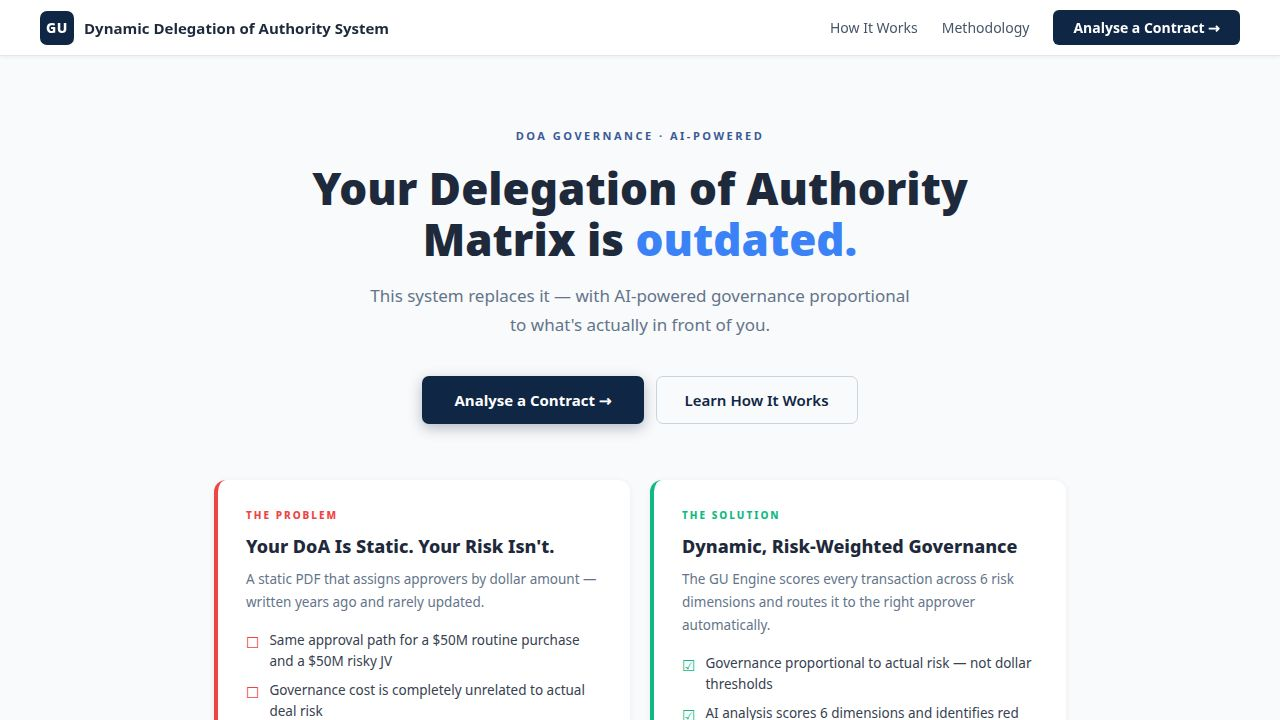
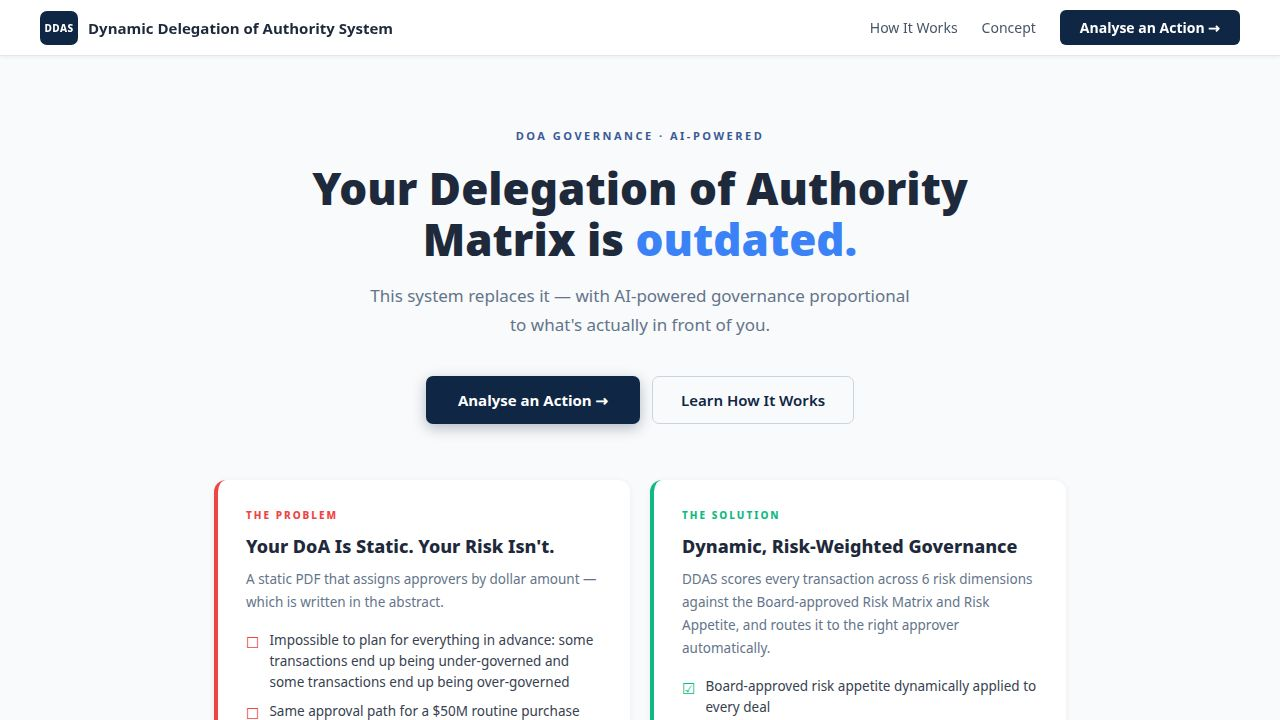
Task #3: Polish the Analyse page entry UI
Rewrote the idle/entry state of ContractAnalyzer.jsx to match the visual
quality of the rest of the app. Four areas changed, no logic touched.

1. Demo Environment card header
   - Replaced raw 🔵 emoji with a styled navy pill badge (dark navy bg,
     blue indicator dot, "Demo" label in white uppercase)
   - Subtitle text moved inline in the header bar
   - Gradient header background matching app's card design language

2. Sample contracts grid
   - Removed the single "Click here to try a sample settlement agreement"
     text link
   - All 5 SAMPLES (Solar EPC, Wind Farm PPA, Green Hydrogen JV, Carbon
     Credit Offtake, Vague Deal) + Settlement Agreement rendered as a
     3×2 grid of clickable cards (icon + label each)
   - Each card uses existing btn-interactive hover animation

3. Upload dropzone (standalone)
   - Moved out of the chat-area div (which was rendering it invisibly
     inside a zero-height container)
   - Now a standalone styled card: dashed border, SVG document+upload icon,
     clear heading, supporting subtext
   - Hover state changes border to accent-primary and background to
     accent-primary-light
   - Chat area hidden via display:none when idle (only shown when active)

4. Input bar container
   - Wrapped in cardStyle container with padding
   - Label "Describe your action or transaction" shown above textarea when idle
   - File attach button upgraded to SVG paperclip icon (vs raw 📎 emoji)
[…]

diff --git a/artifacts/gu-engine/src/components/ContractAnalyzer.jsx b/artifacts/gu-engine/src/components/ContractAnalyzer.jsx
@@ -1126,40 +1126,55 @@ export default function ContractAnalyzer({ config, restoredResult, onResultClear
       {/* Demo box: org profile + sample contracts (idle state only) */}
       {!active && (
         <div className="profile-selector no-print" style={{ ...cardStyle, marginBottom: 14, padding: 0, overflow: 'hidden' }}>
-          <div style={{ padding: '8px 14px', background: 'rgba(30,74,122,0.06)', borderBottom: '1px solid rgba(30,74,122,0.12)', display: 'flex', alignItems: 'center', gap: 8 }}>
-            <span style={{ fontSize: 12 }}>🔵</span>
-            <span style={{ fontSize: 10, fontWeight: 800, letterSpacing: 1.4, color: '#1e4a7a', textTransform: 'uppercase' }}>Demo Environment</span>
+          {/* Header */}
+          <div style={{ padding: '11px 16px', background: 'linear-gradient(135deg, rgba(15,38,68,0.07) 0%, rgba(30,74,122,0.10) 100%)', borderBottom: '1px solid rgba(30,74,122,0.14)', display: 'flex', alignItems: 'center', gap: 10 }}>
+            <div style={{ display: 'inline-flex', alignItems: 'center', gap: 6, padding: '3px 10px 3px 8px', borderRadius: 20, background: '#0f2644' }}>
+              <div style={{ width: 6, height: 6, borderRadius: '50%', background: '#5b8fbe', flexShrink: 0 }} />
+              <span style={{ fontSize: 9, fontWeight: 800, letterSpacing: 1.8, color: '#fff', textTransform: 'uppercase' }}>Demo</span>
+            </div>
+            <span style={{ fontSize: 11, fontWeight: 500, color: 'var(--text-secondary)' }}>Configure your organization profile before analysing an action</span>
           </div>
-          <div style={{ padding: '12px 14px' }}>
-          <div style={{ fontSize: 12, color: 'var(--text-muted)', marginBottom: 10, lineHeight: 1.5 }}>
-            Choose your organization profile for automatic calibration. In a live deployment this is approved by the Board of Directors and hardwired in the Configuration section.
-          </div>
-          <div style={{ display: 'flex', alignItems: 'center', gap: 8, marginBottom: 12, flexWrap: 'wrap' }}>
-            <span style={{ fontSize: 12, fontWeight: 600, color: 'var(--text-secondary)' }}>Select the type of your organization:</span>
-            {Object.entries(config.profiles).map(([id, prof]) => (
-              <button key={id} onClick={() => setProfile(id)} className="btn-interactive" style={{
-                padding: '4px 12px', borderRadius: 6, fontSize: 11, fontWeight: 600, cursor: 'pointer',
-                border: profile === id ? '2px solid var(--accent-primary)' : '1.5px solid var(--border-primary)',
-                background: profile === id ? 'var(--accent-primary-light)' : 'var(--bg-card)',
-                color: profile === id ? 'var(--accent-primary)' : 'var(--text-muted)',
-                transition: 'all 0.3s',
-              }}>{prof.label}</button>
-            ))}
-          </div>
-          <div style={{ paddingTop: 10, borderTop: '1px solid var(--border-secondary)', fontSize: 12, color: 'var(--text-muted)' }}>
-            Don&rsquo;t have an action to describe?{' '}
-            <button
-              onClick={() => send(DEMO_SETTLEMENT, '\uD83D\uDCC4 Sample: Settlement Agreement — Meridian Resources / Atlas Mining Services')}
-              className="btn-interactive"
-              style={{
-                background: 'none', border: 'none', padding: 0, cursor: 'pointer',
-                color: 'var(--accent-primary)', fontWeight: 700, fontSize: 12,
-                textDecoration: 'underline', textUnderlineOffset: 2,
-              }}
-            >
-              Click here to try with a sample settlement agreement.
-            </button>
-          </div>
+
+          <div style={{ padding: '14px 16px' }}>
+            {/* Profile selector */}
+            <div style={{ display: 'flex', alignItems: 'center', gap: 8, marginBottom: 14, flexWrap: 'wrap' }}>
+              <span style={{ fontSize: 11, fontWeight: 600, color: 'var(--text-secondary)', flexShrink: 0 }}>Organization type:</span>
+              {Object.entries(config.profiles).map(([id, prof]) => (
+                <button key={id} onClick={() => setProfile(id)} className="btn-interactive" style={{
+                  padding: '4px 12px', borderRadius: 6, fontSize: 11, fontWeight: 600, cursor: 'pointer',
+                  border: profile === id ? '2px solid var(--accent-primary)' : '1.5px solid var(--border-primary)',
+                  background: profile === id ? 'var(--accent-primary-light)' : 'var(--bg-card)',
+                  color: profile === id ? 'var(--accent-primary)' : 'var(--text-muted)',
+                  transition: 'all 0.2s',
+                }}>{prof.label}</button>
+              ))}
+            </div>
+
+            {/* Sample contracts grid */}
+            <div style={{ borderTop: '1px solid var(--border-secondary)', paddingTop: 12 }}>
+              <div style={{ fontSize: 10, fontWeight: 700, color: 'var(--text-muted)', letterSpacing: 1.3, textTransform: 'uppercase', marginBottom: 8 }}>
+                Try a sample transaction
+              </div>
+              <div style={{ display: 'grid', gridTemplateColumns: 'repeat(3, 1fr)', gap: 6 }}>
+                {[...SAMPLES, { label: 'Settlement Agreement', icon: '\u2696\uFE0F', text: DEMO_SETTLEMENT }].map((s, i) => (
+                  <button
+                    key={i}
+                    onClick={() => send(s.text, `${s.icon} Sample: ${s.label}`)}
+                    className="btn-interactive"
+                    style={{
+                      padding: '8px 10px', borderRadius: 8,
+                      border: '1.5px solid var(--border-primary)',
+                      background: 'var(--bg-card)', cursor: 'pointer',
+                      display: 'flex', alignItems: 'center', gap: 7,
+                      textAlign: 'left',
+                    }}
+                  >
+                    <span style={{ fontSize: 15, flexShrink: 0, lineHeight: 1 }}>{s.icon}</span>
+                    <span style={{ fontSize: 11, fontWeight: 600, color: 'var(--text-secondary)', lineHeight: 1.3 }}>{s.label}</span>
+                  </button>
+                ))}
+              </div>
+            </div>
           </div>
         </div>
       )}
@@ -1181,19 +1196,57 @@ export default function ContractAnalyzer({ config, restoredResult, onResultClear
         </div>
       )}
 
-      {/* Chat area */}
+      {/* Upload dropzone — idle state only */}
+      {!active && !result && (
+        <div
+          className="no-print"
+          onClick={() => fileRef.current?.click()}
+          style={{
+            ...cardStyle,
+            marginBottom: 14, cursor: 'pointer',
+            border: '2px dashed var(--border-primary)',
+            background: 'var(--bg-secondary)',
+            padding: '30px 24px',
+            textAlign: 'center',
+            display: 'flex', flexDirection: 'column', alignItems: 'center', gap: 10,
+            transition: 'border-color 0.2s, background 0.2s',
+          }}
+          onMouseEnter={e => {
+            e.currentTarget.style.borderColor = 'var(--accent-primary)';
+            e.currentTarget.style.background = 'var(--accent-primary-light)';
+          }}
+          onMouseLeave={e => {
+            e.currentTarget.style.borderColor = 'var(--border-primary)';
+            e.currentTarget.style.background = 'var(--bg-secondary)';
+          }}
+        >
+          <div style={{
+            width: 52, height: 52, borderRadius: 14,
+            display: 'flex', alignItems: 'center', justifyContent: 'center',
+            background: 'var(--accent-primary-light)', border: '1.5px solid var(--border-primary)',
+          }}>
+            <svg width="24" height="24" viewBox="0 0 24 24" fill="none" stroke="var(--accent-primary)" strokeWidth="2" strokeLinecap="round" strokeLinejoin="round">
+              <path d="M14 2H6a2 2 0 0 0-2 2v16a2 2 0 0 0 2 2h12a2 2 0 0 0 2-2V8z"/>
+              <polyline points="14,2 14,8 20,8"/>
+              <line x1="12" y1="18" x2="12" y2="12"/>
+              <line x1="9" y1="15" x2="15" y2="15"/>
+            </svg>
+          </div>
+          <div>
+            <div style={{ fontSize: 14, fontWeight: 700, color: 'var(--text-primary)', marginBottom: 3 }}>Drop a document here, or click to upload</div>
+            <div style={{ fontSize: 12, color: 'var(--text-muted)' }}>PDF or image — or describe your transaction in the input below</div>
+          </div>
+        </div>
+      )}
+
+      {/* Chat area — visible once a conversation has started */}
       <div className="chat-area no-print" style={{
         ...cardStyle, background: 'var(--bg-chat)', maxHeight: 450, overflowY: 'auto',
         padding: active ? 16 : 0, marginBottom: 14, minHeight: active ? 120 : 0,
+        display: active ? 'block' : 'none',
         transition: 'all 0.3s',
       }}>
-        {!active && !result && (
-          <div onClick={() => fileRef.current?.click()} style={{ padding: 24, textAlign: 'center', cursor: 'pointer', transition: 'all 0.3s' }}>
-            <div style={{ fontSize: 28 }}>{'\uD83D\uDCC4'}</div>
-            <div style={{ fontSize: 14, fontWeight: 600, color: 'var(--text-secondary)', marginTop: 4 }}>Drop a document here, or click to upload</div>
-            <div style={{ fontSize: 12, color: 'var(--text-muted)', marginTop: 3 }}>PDF, images — or type/paste text below</div>
-          </div>
-        )}
+        {false && null /* dropzone removed — now rendered above as standalone */}
 
         {chat.map((msg, i) => {
           if (msg.from === 'user') return (
@@ -1627,27 +1680,55 @@ export default function ContractAnalyzer({ config, restoredResult, onResultClear
 
       {/* Input area */}
       {!result && (
-        <div className="input-area no-print">
+        <div className="input-area no-print" style={{
+          ...cardStyle,
+          padding: '14px 16px',
+        }}>
+          {/* Label — shown only when idle */}
+          {!active && (
+            <div style={{ fontSize: 10, fontWeight: 700, color: 'var(--text-muted)', letterSpacing: 1.3, textTransform: 'uppercase', marginBottom: 10 }}>
+              Describe your action or transaction
+            </div>
+          )}
+
+          {/* Attached file badge */}
           {file && (
-            <div style={{ display: 'flex', gap: 4, marginBottom: 6 }}>
-              <div style={{ display: 'flex', alignItems: 'center', gap: 4, padding: '4px 10px', background: 'var(--accent-primary-light)', borderRadius: 6, fontSize: 12, fontWeight: 600, color: 'var(--accent-primary)' }}>
+            <div style={{ display: 'flex', gap: 4, marginBottom: 8 }}>
+              <div style={{ display: 'flex', alignItems: 'center', gap: 6, padding: '4px 10px', background: 'var(--accent-primary-light)', borderRadius: 6, fontSize: 12, fontWeight: 600, color: 'var(--accent-primary)', border: '1px solid var(--border-primary)' }}>
+                <span style={{ fontSize: 13 }}>📎</span>
                 {file.name}
-                <button onClick={() => setFile(null)} style={{ background: 'none', border: 'none', cursor: 'pointer', color: 'var(--accent-secondary)', fontSize: 14, fontWeight: 700, padding: 0 }}>x</button>
+                <button onClick={() => setFile(null)} style={{ background: 'none', border: 'none', cursor: 'pointer', color: 'var(--text-muted)', fontSize: 14, fontWeight: 700, padding: 0, lineHeight: 1 }}>×</button>
               </div>
             </div>
           )}
+
           <div className="input-row" style={{ display: 'flex', gap: 8, alignItems: 'flex-end' }}>
             <input ref={fileRef} type="file" accept=".pdf,image/*" onChange={e => { setFile(e.target.files[0] || null); e.target.value = ''; }} style={{ display: 'none' }} />
-            <button onClick={() => fileRef.current?.click()} className="btn-interactive" style={{ padding: '10px 12px', borderRadius: 10, border: '1.5px solid var(--border-primary)', background: 'var(--bg-card)', cursor: 'pointer', fontSize: 16, color: 'var(--text-tertiary)', minHeight: 44 }}>{'\uD83D\uDCCE'}</button>
+            <button
+              onClick={() => fileRef.current?.click()}
+              className="btn-interactive"
+              title="Attach a PDF or image"
+              style={{
+                padding: '10px 12px', borderRadius: 10,
+                border: '1.5px solid var(--border-primary)',
+                background: 'var(--bg-tertiary)', cursor: 'pointer',
+                fontSize: 16, color: 'var(--text-tertiary)', minHeight: 44,
+                display: 'flex', alignItems: 'center', justifyContent: 'center',
+              }}
+            >
+              <svg width="17" height="17" viewBox="0 0 24 24" fill="none" stroke="currentColor" strokeWidth="2" strokeLinecap="round" strokeLinejoin="round">
+                <path d="M21.44 11.05l-9.19 9.19a6 6 0 0 1-8.49-8.49l9.19-9.19a4 4 0 0 1 5.66 5.66l-9.2 9.19a2 2 0 0 1-2.83-2.83l8.49-8.48"/>
+              </svg>
+            </button>
             <textarea
               value={input} onChange={e => setInput(e.target.value)} onKeyDown={onKey}
-              placeholder={active ? "Answer the advisor's questions..." : 'Paste an action description, contract text, or describe a transaction...'}
+              placeholder={active ? "Answer the system's questions, or add more detail..." : 'Paste a contract, describe a transaction, or type a question...'}
               rows={active ? 2 : 4}
               style={{
                 flex: 1, padding: 12, borderRadius: 10, border: '1.5px solid var(--border-primary)',
                 fontSize: 13, lineHeight: 1.6, color: 'var(--text-primary)', resize: 'vertical',
                 fontFamily: 'inherit', outline: 'none', minHeight: active ? 44 : 90,
-                background: 'var(--bg-input)', transition: 'border-color 0.3s',
+                background: 'var(--bg-input)', transition: 'border-color 0.2s',
               }}
               onFocus={e => e.target.style.borderColor = 'var(--border-focus)'}
               onBlur={e => e.target.style.borderColor = 'var(--border-primary)'}
@@ -1655,10 +1736,11 @@ export default function ContractAnalyzer({ config, restoredResult, onResultClear
             <button onClick={() => send()} disabled={loading || (!input.trim() && !file)} className="btn-interactive" style={{
               padding: '12px 22px', borderRadius: 10, border: 'none', cursor: loading ? 'wait' : 'pointer',
               background: loading ? 'var(--text-muted)' : 'var(--accent-primary)', color: '#fff',
-              fontSize: 13, fontWeight: 700, minHeight: 44, opacity: (!input.trim() && !file) ? 0.5 : 1,
+              fontSize: 13, fontWeight: 700, minHeight: 44,
+              opacity: (!input.trim() && !file) ? 0.5 : 1,
               boxShadow: loading ? 'none' : 'var(--shadow-accent)',
-              transition: 'all 0.3s',
-            }}>{loading ? 'Analyzing...' : active ? 'Send' : 'Analyze'}</button>
+              transition: 'all 0.2s',
+            }}>{loading ? 'Analyzing…' : active ? 'Send' : 'Analyze →'}</button>
           </div>
         </div>
       )}